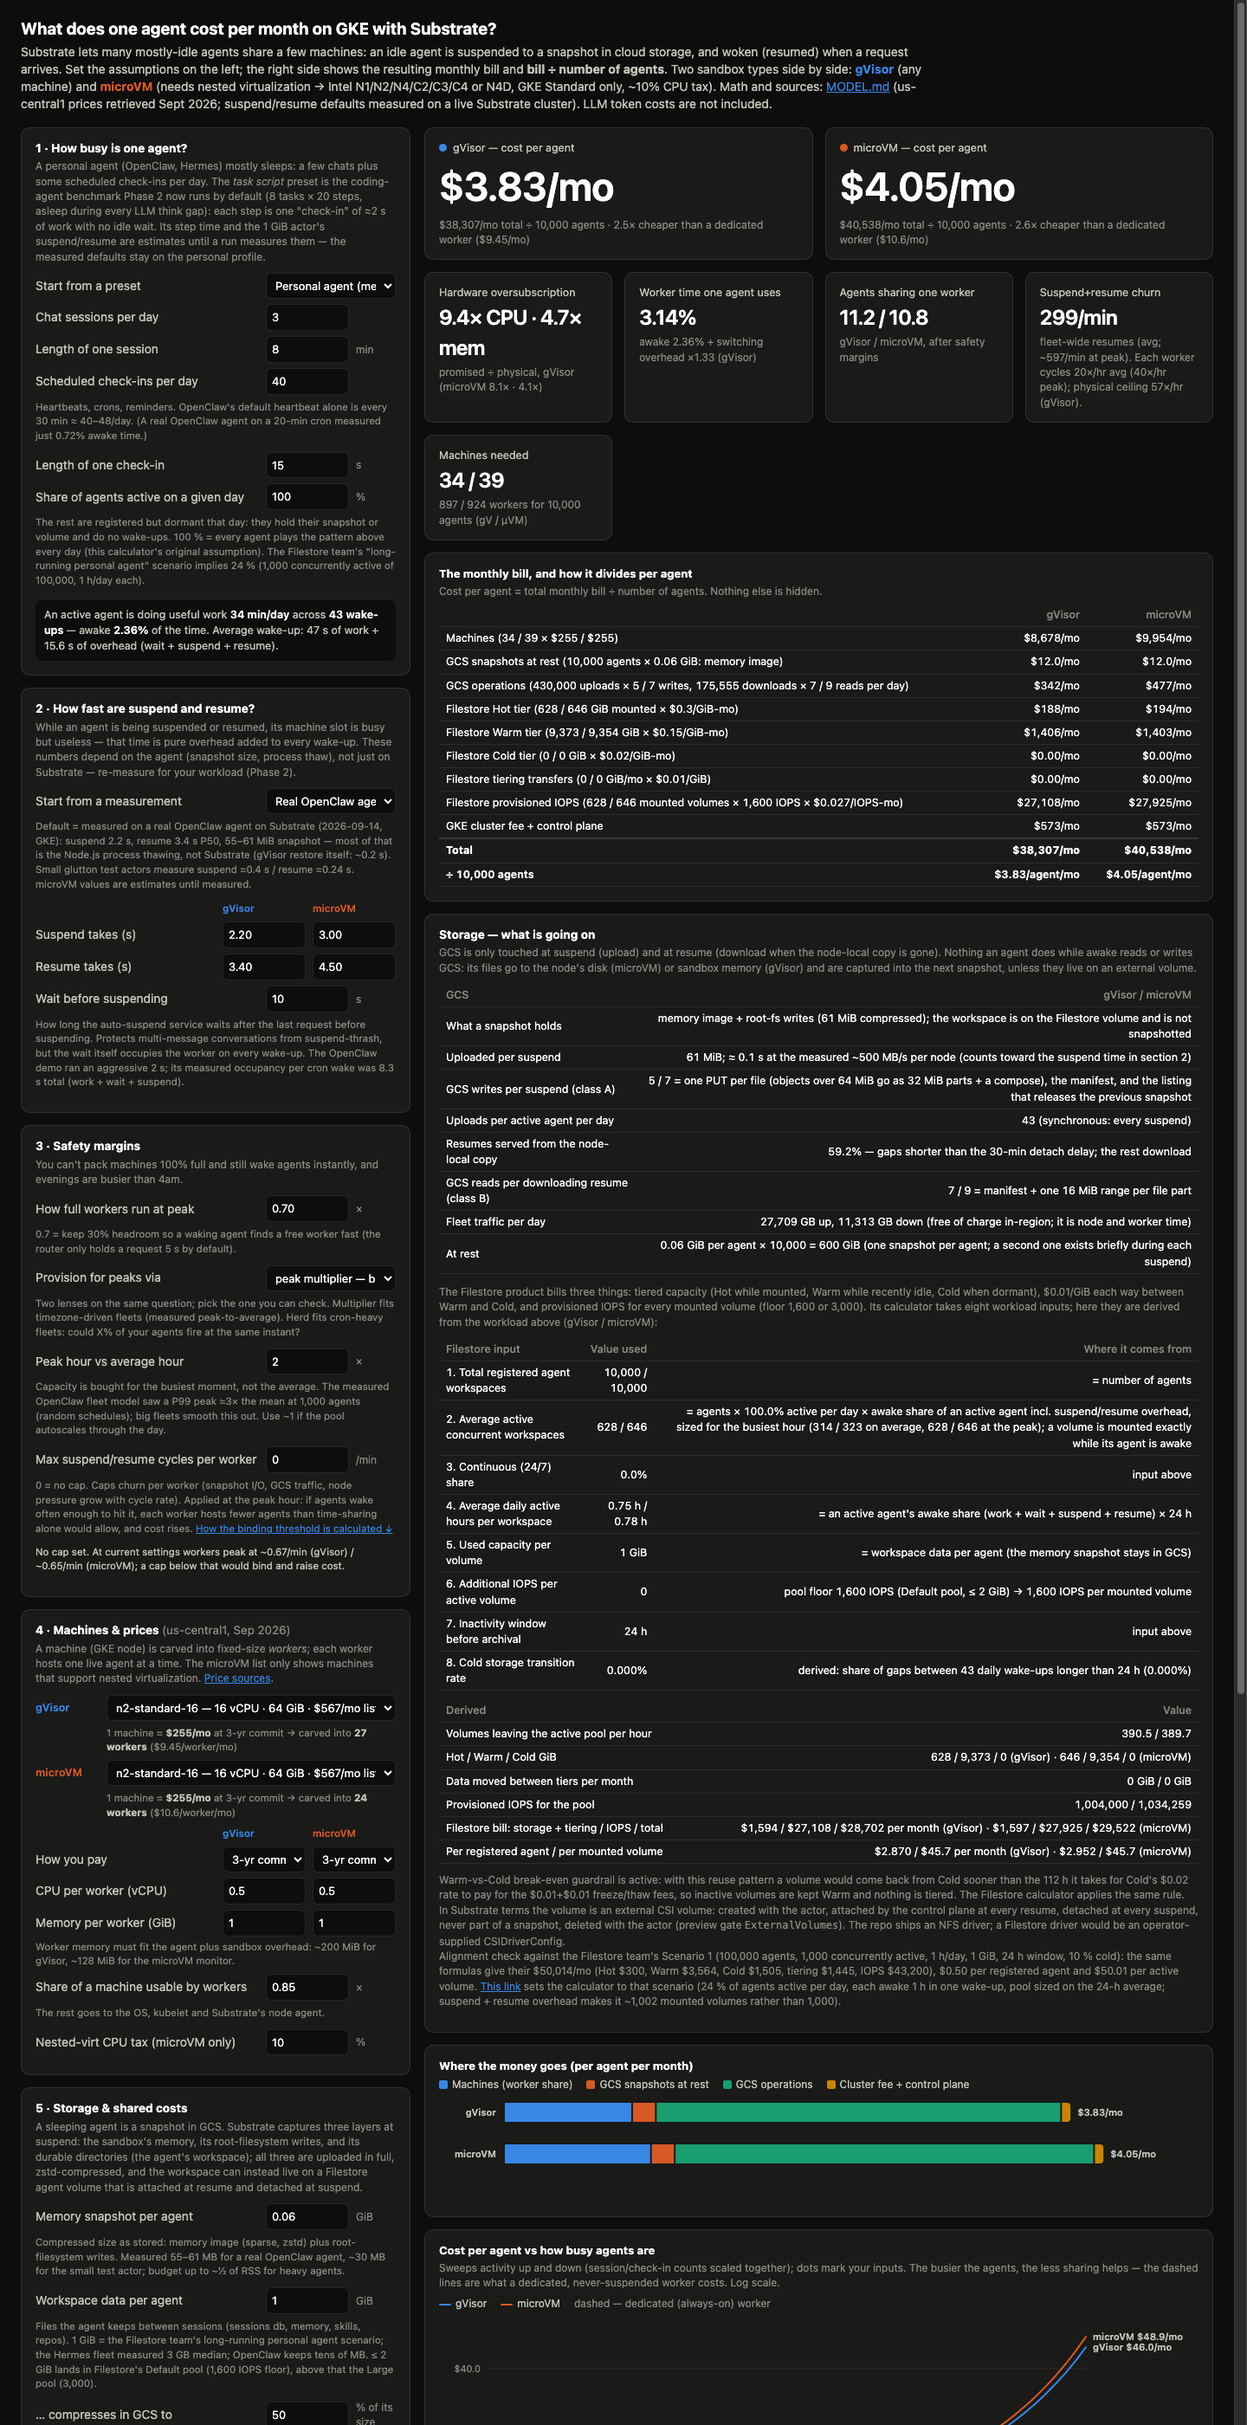
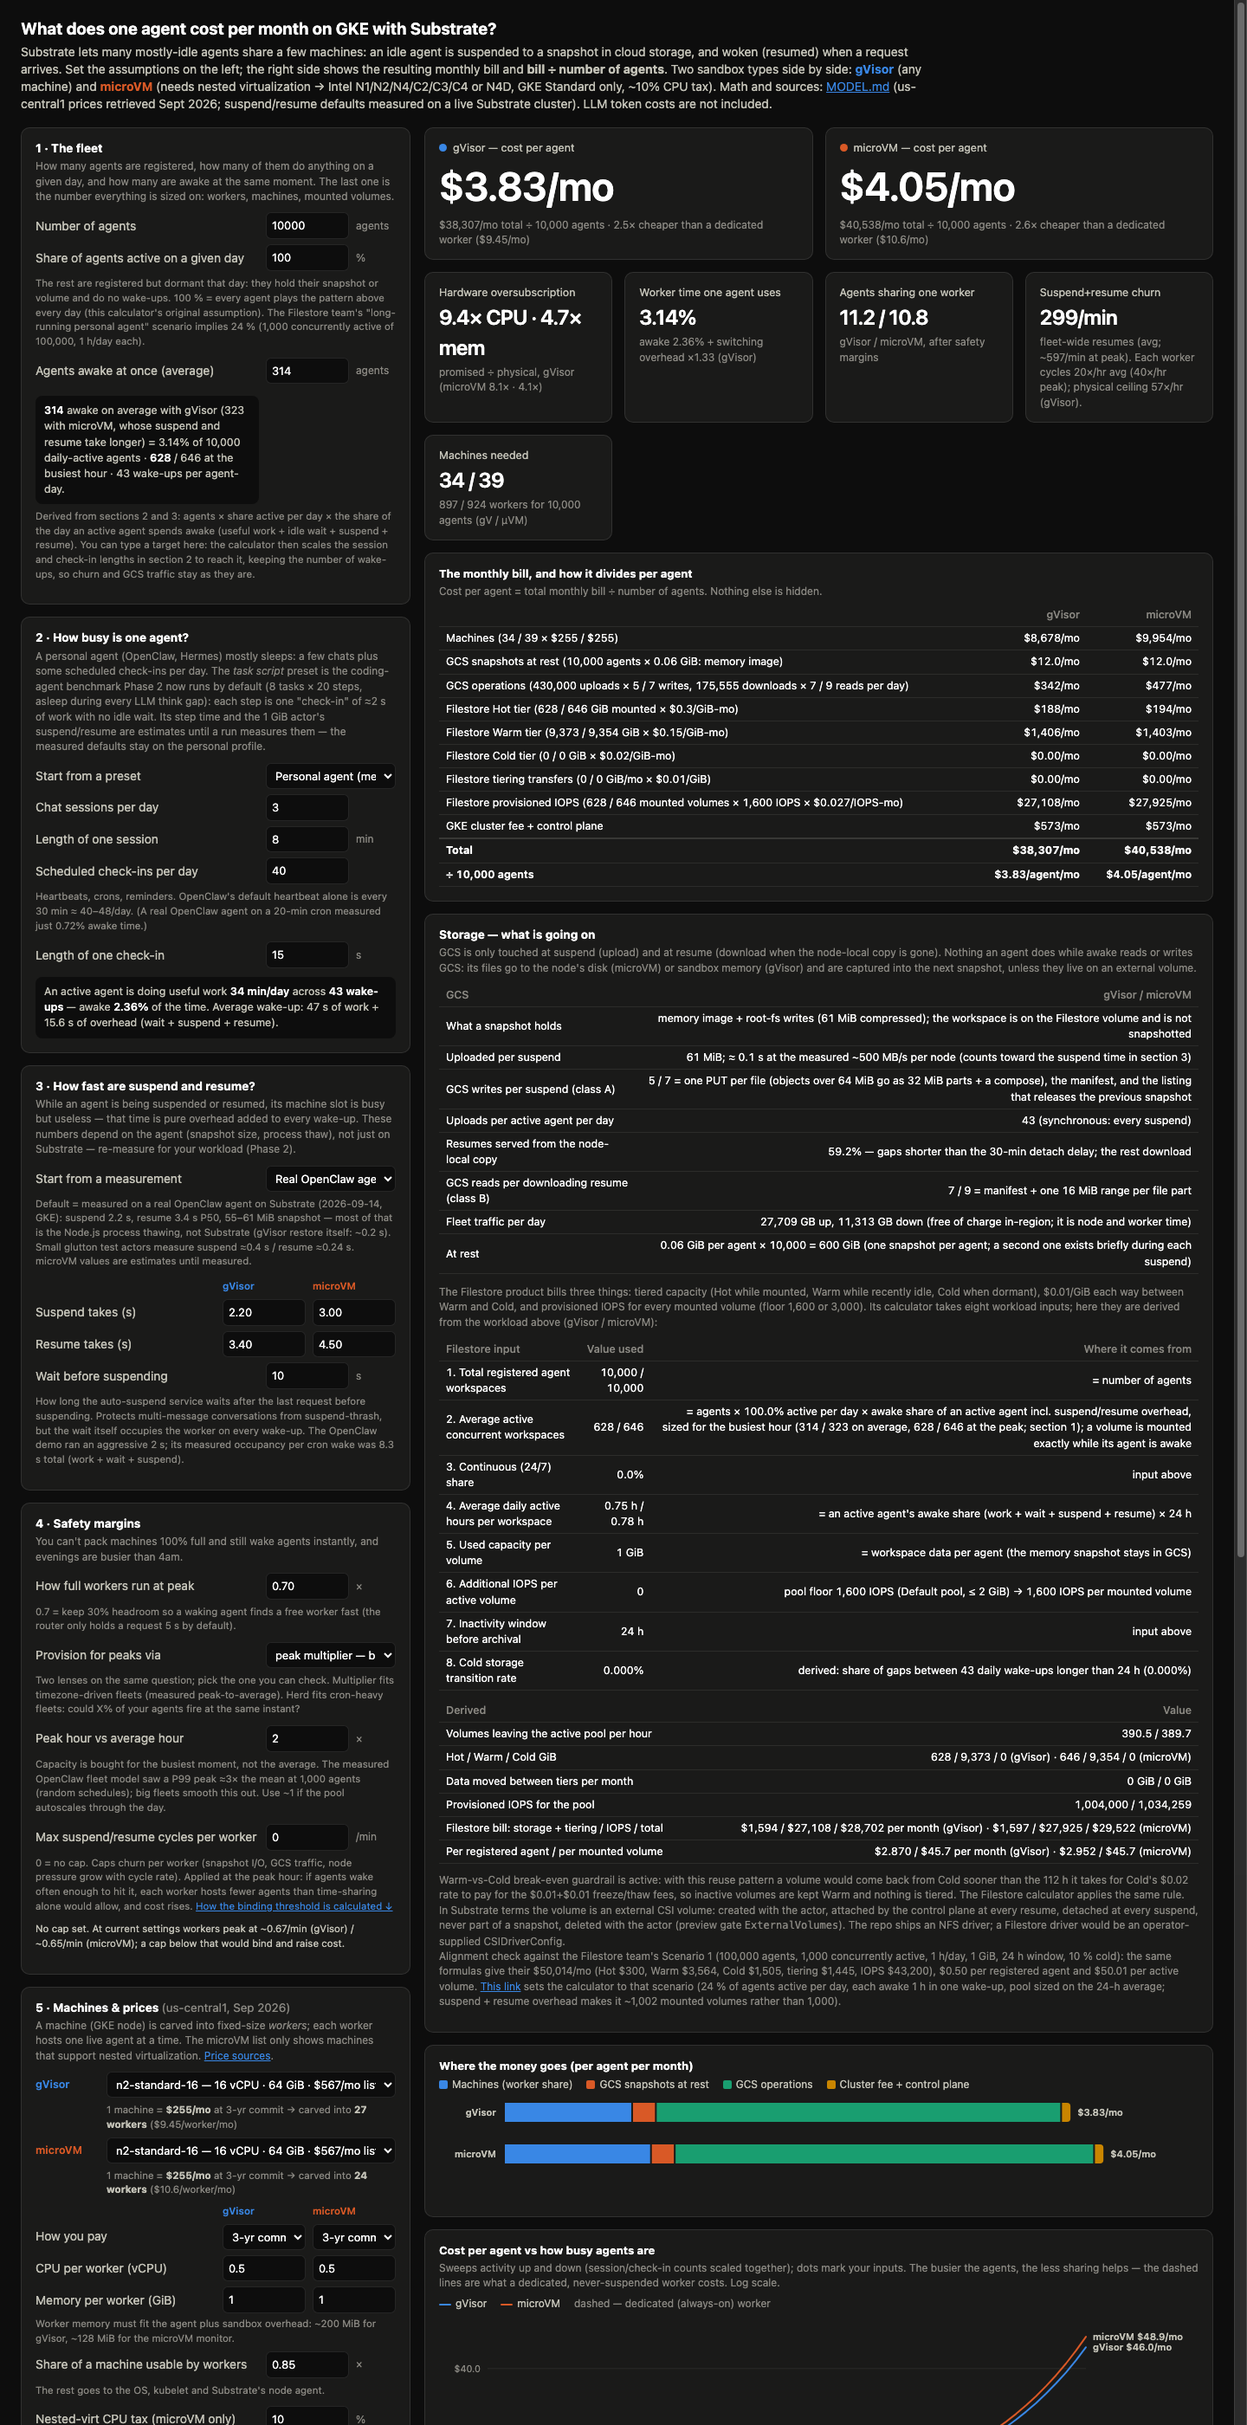
calculator: a top-level fleet card (number of agents, share active per day, agents awake at once as a live number and as an editable target that scales wake-up length, not cadence); storage section no longer owns the fleet size; sections renumbered

Changed region(s): [[0.0312, 0.0621, 0.3125, 1.0], [0.4688, 0.5593, 0.5312, 0.5904], [0.9688, 0.6525, 1.0, 0.6836]]

diff --git a/calculator.html b/calculator.html
@@ -118,7 +118,18 @@
 <div id="inputs">
 
   <div class="card">
-    <h2>1 · How busy is one agent?</h2>
+    <h2>1 · The fleet</h2>
+    <p class="why">How many agents are registered, how many of them do anything on a given day, and how many are awake at the same moment. The last one is the number everything is sized on: workers, machines, mounted volumes.</p>
+    <div class="row"><label for="fleet">Number of agents</label><input id="fleet" type="number" min="1" step="100" value="10000"><span class="unit">agents</span></div>
+    <div class="row"><label for="dailyShare">Share of agents active on a given day</label><input id="dailyShare" type="number" min="1" max="100" step="1" value="100"><span class="unit">%</span>
+      <div class="hint">The rest are registered but dormant that day: they hold their snapshot or volume and do no wake-ups. 100 % = every agent plays the pattern above every day (this calculator's original assumption). The Filestore team's "long-running personal agent" scenario implies 24 % (1,000 concurrently active of 100,000, 1 h/day each).</div></div>
+    <div class="row"><label for="concur">Agents awake at once (average)</label><input id="concur" type="number" min="1" step="10" value="314"><span class="unit">agents</span>
+      <div class="derived" id="concurDerived" style="margin-top:6px"></div>
+      <div class="hint">Derived from sections 2 and 3: agents × share active per day × the share of the day an active agent spends awake (useful work + idle wait + suspend + resume). You can type a target here: the calculator then scales the session and check-in lengths in section 2 to reach it, keeping the number of wake-ups, so churn and GCS traffic stay as they are. <span id="concurNote"></span></div></div>
+  </div>
+
+  <div class="card">
+    <h2>2 · How busy is one agent?</h2>
     <p class="why">A personal agent (OpenClaw, Hermes) mostly sleeps: a few chats plus some scheduled check-ins per day. The <em>task script</em> preset is the coding-agent benchmark Phase 2 now runs by default (8 tasks × 20 steps, asleep during every LLM think gap): each step is one "check-in" of ≈2 s of work with no idle wait. Its step time and the 1 GiB actor's suspend/resume are estimates until a run measures them — the measured defaults stay on the personal profile.</p>
     <div class="row"><label for="preset">Start from a preset</label>
       <select id="preset" style="grid-column:2/4">
@@ -133,13 +144,11 @@
     <div class="row"><label for="wakes">Scheduled check-ins per day</label><input id="wakes" type="number" min="0" step="1" value="40"><span class="unit"></span>
       <div class="hint">Heartbeats, crons, reminders. OpenClaw's default heartbeat alone is every 30 min ≈ 40–48/day. (A real OpenClaw agent on a 20-min cron measured just 0.72% awake time.)</div></div>
     <div class="row"><label for="wakeSec">Length of one check-in</label><input id="wakeSec" type="number" min="0.5" step="0.1" value="15"><span class="unit">s</span></div>
-    <div class="row"><label for="dailyShare">Share of agents active on a given day</label><input id="dailyShare" type="number" min="1" max="100" step="1" value="100"><span class="unit">%</span>
-      <div class="hint">The rest are registered but dormant that day: they hold their snapshot or volume and do no wake-ups. 100 % = every agent plays the pattern above every day (this calculator's original assumption). The Filestore team's "long-running personal agent" scenario implies 24 % (1,000 concurrently active of 100,000, 1 h/day each).</div></div>
     <div class="derived" id="workloadDerived"></div>
   </div>
 
   <div class="card">
-    <h2>2 · How fast are suspend and resume?</h2>
+    <h2>3 · How fast are suspend and resume?</h2>
     <p class="why">While an agent is being suspended or resumed, its machine slot is busy but useless — that time is pure overhead added to every wake-up. These numbers depend on the agent (snapshot size, process thaw), not just on Substrate — re-measure for your workload (Phase 2).</p>
     <div class="row"><label for="srPreset">Start from a measurement</label>
       <select id="srPreset" style="grid-column:2/4">
@@ -157,7 +166,7 @@
   </div>
 
   <div class="card">
-    <h2>3 · Safety margins</h2>
+    <h2>4 · Safety margins</h2>
     <p class="why">You can't pack machines 100% full and still wake agents instantly, and evenings are busier than 4am.</p>
     <div class="row"><label for="util">How full workers run at peak</label><input id="util" type="number" min="0.1" max="1" step="0.05" value="0.70"><span class="unit">×</span>
       <div class="hint">0.7 = keep 30% headroom so a waking agent finds a free worker fast (the router only holds a request 5 s by default).</div></div>
@@ -177,7 +186,7 @@
   </div>
 
   <div class="card">
-    <h2>4 · Machines &amp; prices <span style="font-weight:400;color:var(--muted)">(us-central1, Sep 2026)</span></h2>
+    <h2>5 · Machines &amp; prices <span style="font-weight:400;color:var(--muted)">(us-central1, Sep 2026)</span></h2>
     <p class="why">A machine (GKE node) is carved into fixed-size <i>workers</i>; each worker hosts one live agent at a time. The microVM list only shows machines that support nested virtualization. <a href="MODEL.md">Price sources</a>.</p>
     <div class="duo-wrap">
       <div class="shape-row"><span class="who g">gVisor</span><select id="g_shape"></select></div>
@@ -198,7 +207,7 @@
   </div>
 
   <div class="card">
-    <h2>5 · Storage &amp; shared costs</h2>
+    <h2>6 · Storage &amp; shared costs</h2>
     <p class="why">A sleeping agent is a snapshot in GCS. Substrate captures three layers at suspend: the sandbox's memory, its root-filesystem writes, and its durable directories (the agent's workspace); all three are uploaded in full, zstd-compressed, and the workspace can instead live on a Filestore agent volume that is attached at resume and detached at suspend.</p>
     <div class="row"><label for="snapGiB">Memory snapshot per agent</label><input id="snapGiB" type="number" min="0.01" step="0.05" value="0.06"><span class="unit">GiB</span>
       <div class="hint">Compressed size as stored: memory image (sparse, zstd) plus root-filesystem writes. Measured 55–61 MB for a real OpenClaw agent, ~30 MB for the small test actor; budget up to ~½ of RSS for heavy agents.</div></div>
@@ -229,7 +238,7 @@
     <div id="favInputs" style="display:none">
     <div class="row"><label for="favSizing">Active-volume pool sized for</label>
       <select id="favSizing" style="grid-column:2/4">
-        <option value="peak" selected>the busiest hour (same peak lens as the machines, section 3)</option>
+        <option value="peak" selected>the busiest hour (same peak lens as the machines, section 4)</option>
         <option value="avg">the 24-hour average (the Filestore calculator's convention)</option>
       </select>
       <div class="hint">A volume is mounted while its agent is awake. Provisioned IOPS are billed on the number of mounted volumes the pool must hold; machines are sized for the peak above, so the pool is too by default.</div></div>
@@ -253,7 +262,6 @@
       </select></div>
     <div class="row"><label for="favDiscount">Filestore contract discount</label><input id="favDiscount" type="number" min="0" max="90" step="1" value="0"><span class="unit">%</span></div>
     </div>
-    <div class="row"><label for="fleet">Number of agents</label><input id="fleet" type="number" min="1" step="100" value="10000"><span class="unit"></span></div>
     <div class="row"><label for="cpMo">Control plane &amp; monitoring</label><input id="cpMo" type="number" min="0" step="50" value="500"><span class="unit">$/mo</span>
       <div class="hint">Substrate API servers, database, router, Prometheus — one bill for the whole fleet, plus GKE's $73/mo cluster fee.</div></div>
   </div>
@@ -811,7 +819,7 @@ function favExplain(G, M, w, fleet) {
   const mb = gib => fmt(gib*1024,0)+" MiB";
   const gcsRows = [
     ["What a snapshot holds", g.onFav ? `memory image + root-fs writes (${mb(g.memZ)} compressed); the workspace is on the Filestore volume and is not snapshotted` : `memory image + root-fs writes (${mb(g.memZ)}) + the workspace tarred and compressed (${mb(g.wsGiB)} → ${mb(g.wsZ)}) = ${mb(g.bytesPerSnapshot)} per snapshot`],
-    ["Uploaded per suspend", `${mb(g.bytesPerSnapshot)}; ≈ ${fmt(g.bytesPerSnapshot*1024/500,1)} s at the measured ~500 MB/s per node (counts toward the suspend time in section 2)`],
+    ["Uploaded per suspend", `${mb(g.bytesPerSnapshot)}; ≈ ${fmt(g.bytesPerSnapshot*1024/500,1)} s at the measured ~500 MB/s per node (counts toward the suspend time in section 3)`],
     ["GCS writes per suspend (class A)", two(g.writesPerSuspend, m.writesPerSuspend) + ` = one PUT per file (objects over 64 MiB go as 32 MiB parts + a compose), the manifest, and the listing that releases the previous snapshot`],
     ["Uploads per active agent per day", `${fmt(g.uploadsPerDay,1)} ` + (g.sync ? "(synchronous: every suspend)" : `(asynchronous: at most one per ${g.upDelay}-min window; ${fmt(w.acts,0)} suspends/day collapse to ${fmt(g.uploadsPerDay,1)})`)],
     ["Resumes served from the node-local copy", `${pctf(g.localFrac)} — gaps shorter than the ${fmt(g.detachMin,0)}-min detach delay; the rest download`],
@@ -828,7 +836,7 @@ function favExplain(G, M, w, fleet) {
     const sizing = $("favSizing").value === "peak" ? "busiest hour" : "24-h average";
     const rows = [
       ["1. Total registered agent workspaces", two(fleet, fleet), "= number of agents"],
-      ["2. Average active concurrent workspaces", two(gi.active, mi.active), `= agents × ${pctf(gi.share)} active per day × awake share of an active agent incl. suspend/resume overhead, sized for the ${sizing} (${two(gi.activeAvg, mi.activeAvg)} on average, ${two(gi.activePeak, mi.activePeak)} at the peak); a volume is mounted exactly while its agent is awake`],
+      ["2. Average active concurrent workspaces", two(gi.active, mi.active), `= agents × ${pctf(gi.share)} active per day × awake share of an active agent incl. suspend/resume overhead, sized for the ${sizing} (${two(gi.activeAvg, mi.activeAvg)} on average, ${two(gi.activePeak, mi.activePeak)} at the peak; section 1); a volume is mounted exactly while its agent is awake`],
       ["3. Continuous (24/7) share", pctf(gi.cont), "input above"],
       ["4. Average daily active hours per workspace", two(gi.hoursPerDay, mi.hoursPerDay, v=>fmt(v,2)+" h"), "= an active agent's awake share (work + wait + suspend + resume) × 24 h"],
       ["5. Used capacity per volume", fmt(gi.gib,2)+" GiB", "= workspace data per agent (the memory snapshot stays in GCS)"],
@@ -868,6 +876,15 @@ function recompute() {
     `An active agent is doing useful work <b>${fmt(w.liveSec/60,0)} min/day</b> across <b>${fmt(w.acts,0)} wake-ups</b>
      — awake <b>${pct(w.duty)}</b> of the time. Average wake-up: ${fmt(w.liveSec/Math.max(w.acts,1),0)} s of work
      + ${fmt(G.over,1)} s of overhead (wait + suspend + resume).${w.share < 1 ? ` <b>${pct(w.share)}</b> of the fleet is active on a given day; the rest sleep all day.` : ""}`;
+
+  // Fleet card: agents awake at once (the field doubles as a target, see applyConcurrency)
+  {
+    const avgG = fleet*G.dEff, avgM = fleet*M.dEff;
+    const pkG = G.herdMode ? fleet*(num("herd")/100 + (1-num("herd")/100)*G.dEff) : avgG*num("peak");
+    const pkM = M.herdMode ? fleet*(num("herd")/100 + (1-num("herd")/100)*M.dEff) : avgM*num("peak");
+    if (document.activeElement !== $("concur")) $("concur").value = Math.round(avgG);
+    $("concurDerived").innerHTML = `<b>${fmt(avgG,0)}</b> awake on average with gVisor (${fmt(avgM,0)} with microVM, whose suspend and resume take longer) = ${pct(G.dEff)} of ${fmt(fleet*w.share,0)} daily-active agents · <b>${fmt(pkG,0)}</b> / ${fmt(pkM,0)} at the busiest hour · ${fmt(w.acts,0)} wake-ups per agent-day.`;
+  }
 
   $("g_machineCost").innerHTML = `1 machine = <b>${fmt$(G.nodeMo)}/mo</b> at ${PRICE_NAMES[pG.priceModel]} → carved into <b>${G.wpn} workers</b> (${fmt$(G.nodeMo/G.wpn)}/worker/mo)`;
   $("m_machineCost").innerHTML = `1 machine = <b>${fmt$(M.nodeMo)}/mo</b> at ${PRICE_NAMES[pM.priceModel]} → carved into <b>${M.wpn} workers</b> (${fmt$(M.nodeMo/M.wpn)}/worker/mo)`;
@@ -1006,6 +1023,7 @@ function recompute() {
 }
 
 $("preset").addEventListener("change", () => {
+  $("concurNote").textContent = "";
   const p = PRESETS[$("preset").value];
   if (p) { for (const k in p) $(k).value = p[k]; }
   recompute();
@@ -1021,6 +1039,26 @@ $("srPreset").addEventListener("change", () => {
   if (p) { for (const k in p) $(k).value = p[k]; }
   recompute();
 });
+// Typing a concurrency target scales how long each wake-up lasts (session and check-in lengths), not how often agents wake.
+function applyConcurrency() {
+  const target = num("concur"); if (!(target > 0)) return;
+  const fleet = num("fleet"), share = Math.min(1, Math.max(0.01, num("dailyShare")/100));
+  const w = workload(), over = num("tidle") + num("g_ts") + num("g_tr");
+  const occTarget = target*86400/(fleet*share);        // worker-seconds per active agent-day needed
+  const floor = w.acts*over;                           // overhead alone, with zero useful work
+  let note = "";
+  if (w.liveSec <= 0) note = "No session or check-in length to scale: set sessions or check-ins first.";
+  else if (occTarget <= floor*1.001) {
+    note = `Not reachable: ${fmt(w.acts,0)} wake-ups × ${fmt(over,1)} s of idle wait + suspend + resume already keep an agent awake ${pct(floor/86400)} of the day (${fmt(fleet*share*floor/86400,0)} agents). Shorten the idle wait (section 4) or reduce wake-ups.`;
+  } else {
+    const k = (occTarget - floor)/w.liveSec;
+    const sm = Math.round(num("sessMin")*k*100)/100, ws = Math.round(num("wakeSec")*k*10)/10;
+    $("sessMin").value = sm; $("wakeSec").value = ws; $("preset").value = "custom";
+    note = `Set session length to ${fmt(sm,2)} min and check-in length to ${fmt(ws,1)} s (×${fmt(k,2)}); wake-up counts unchanged.` + (sm > 180 ? " Sessions over 3 h: you may mean more agents rather than longer sessions." : "");
+  }
+  $("concurNote").textContent = note;
+}
+$("concur").addEventListener("input", () => { applyConcurrency(); recompute(); });
 function syncBackendUI() {
   const fav = backendIsFav();
   $("favInputs").style.display = fav ? "" : "none";
@@ -1031,7 +1069,7 @@ $("backend").addEventListener("change", () => { syncBackendUI(); recompute(); })
 $("dur").addEventListener("change", () => { syncBackendUI(); recompute(); });
 $("favColdMode").addEventListener("change", () => { syncBackendUI(); recompute(); });
 document.querySelectorAll("input, select").forEach(i => {
-  if (i.id !== "preset" && i.id !== "srPreset") i.addEventListener("input", () => {
+  if (i.id !== "preset" && i.id !== "srPreset" && i.id !== "concur") i.addEventListener("input", () => {
     if (["sessions","sessMin","wakes","wakeSec","dailyShare"].includes(i.id)) $("preset").value = "custom";
     if (["g_ts","g_tr","m_ts","m_tr","snapGiB"].includes(i.id)) $("srPreset").value = "custom";
     recompute();

diff --git a/MODEL.md b/MODEL.md
@@ -81,6 +81,14 @@ Filestore mapping below needs both the average and the per-active values.
 100,000 agents concurrently active for 1 h/day each, i.e. 24 % active per
 day.)
 
+**Agents awake at once.** The calculator shows the fleet-level consequence of
+the per-agent numbers, `fleet × share × d'` on average and `× P` (or the
+herd form) at the peak, as an editable field. Typing a target there scales
+the useful-work part of the day (session and check-in lengths) so the fleet
+reaches that concurrency, keeping the number of wake-ups fixed, so churn and
+GCS traffic do not move; a target below the overhead-only floor
+(`A × (T_idle + T_s + T_r)` per day) is refused with a note.
+
 ## 3. Oversubscription (actors per worker)
 
 If workers could be packed to 100% busy:
